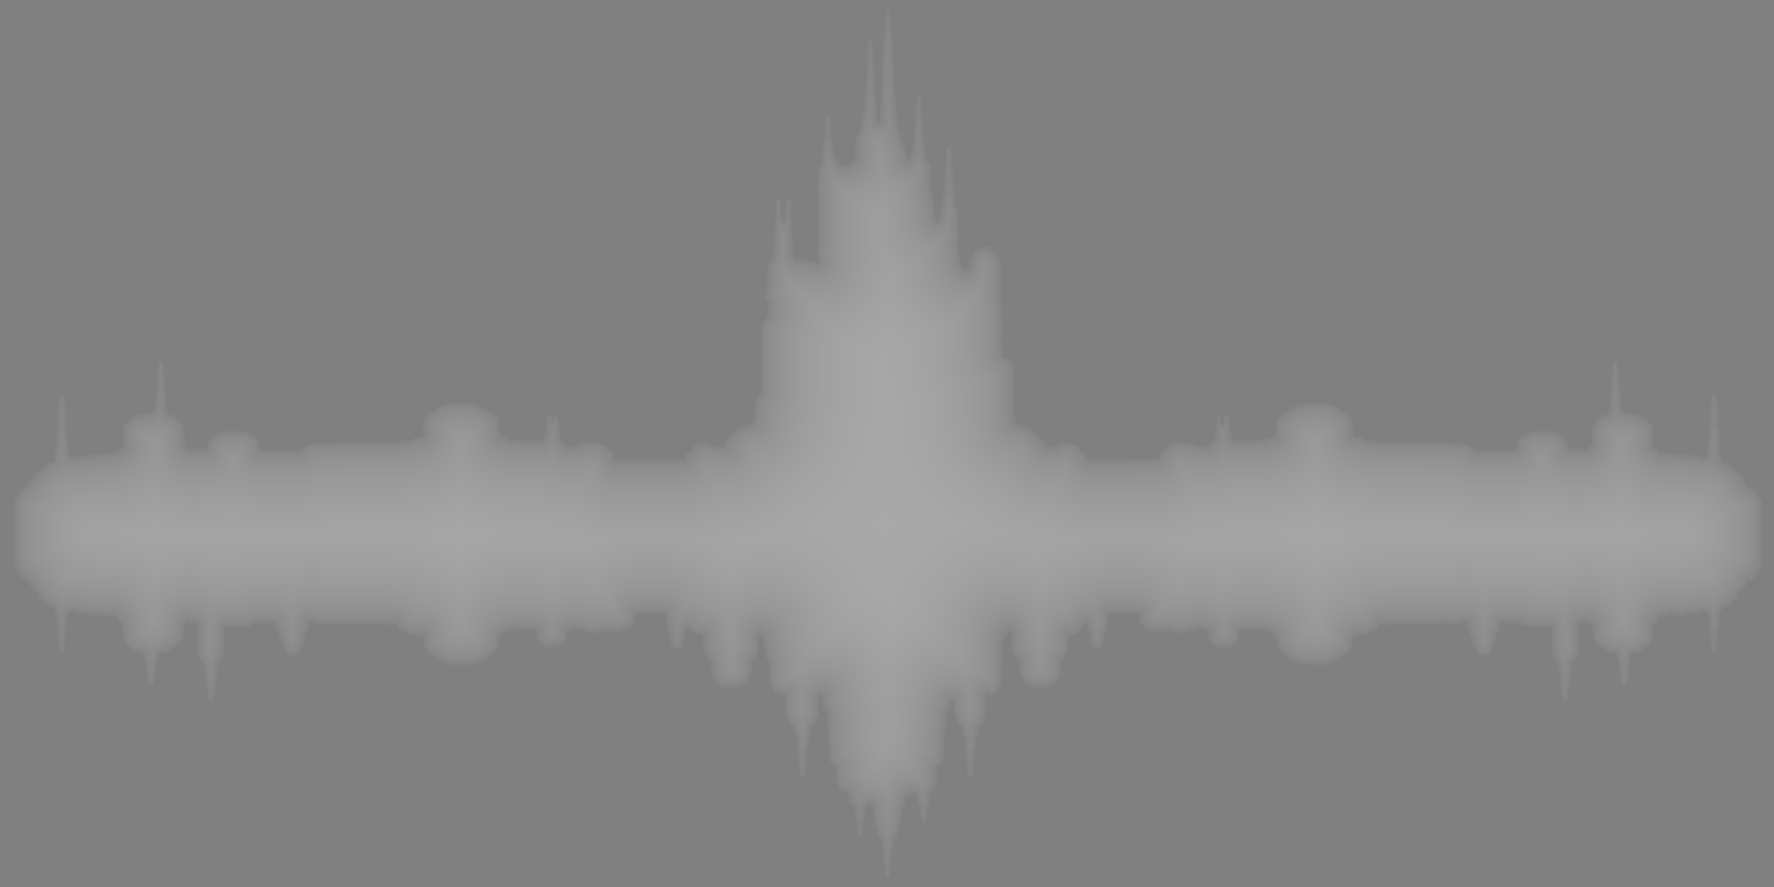
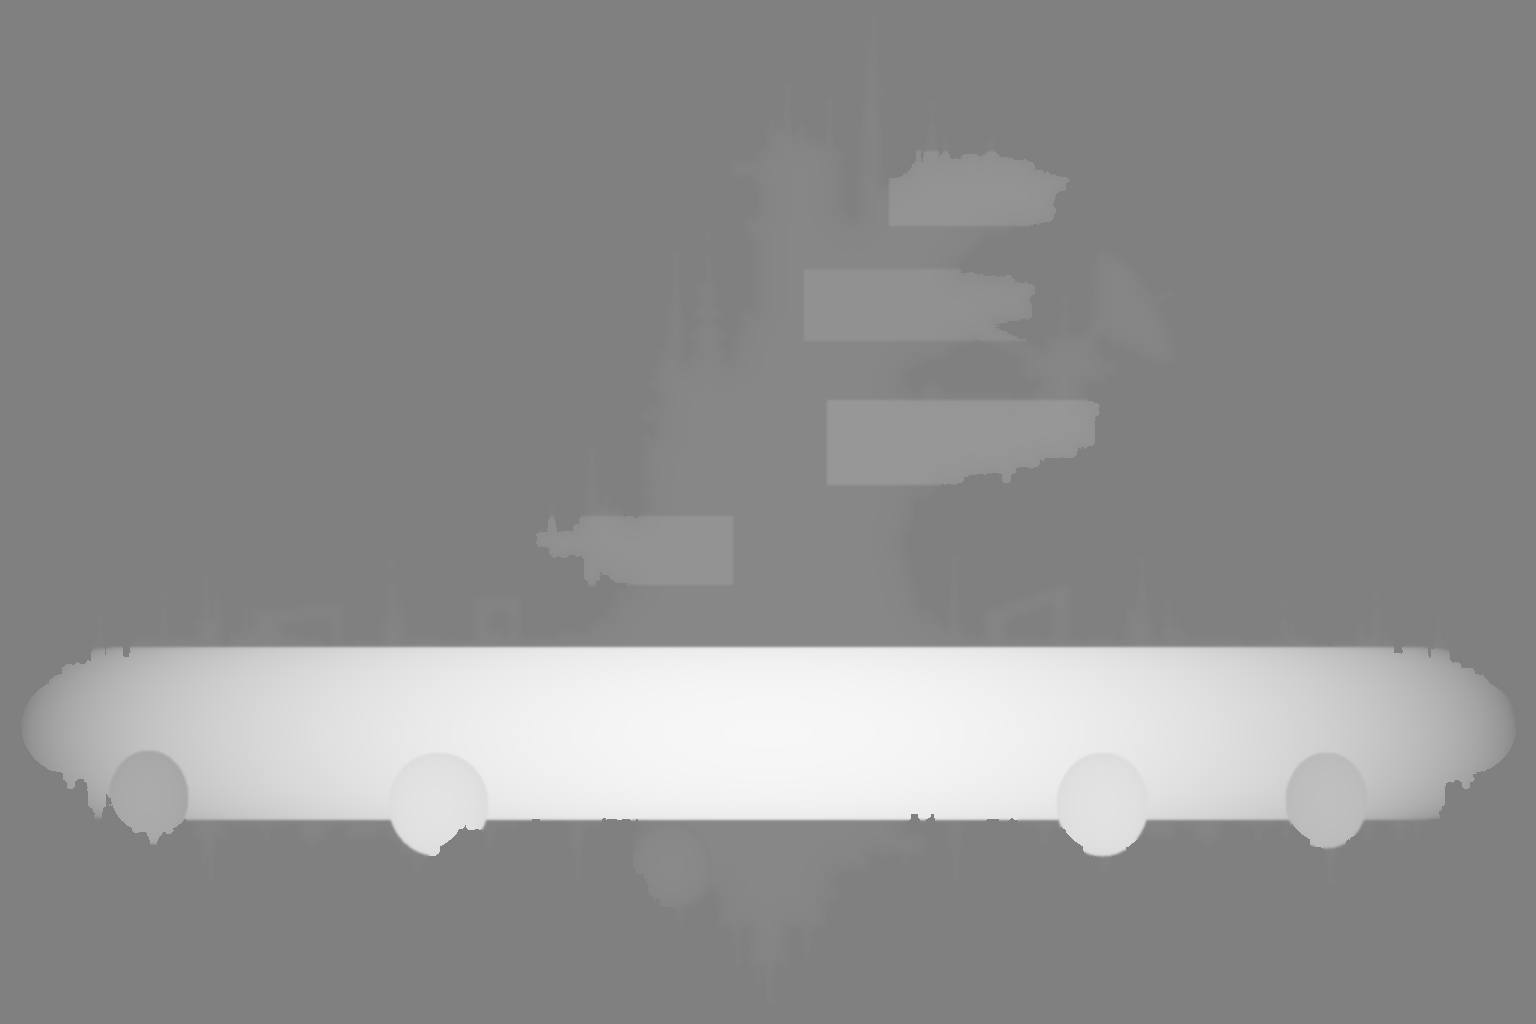
Replace starbase sprite with lossless cutout and geometric relief maps

Changed region(s): [[0.0, 0.2131, 1.0, 0.8523]]

diff --git a/scripts/prepare-starbase-sprite.py b/scripts/prepare-starbase-sprite.py
@@ -1,0 +1,165 @@
+"""Extract the approved station without changing any source RGB samples.
+
+Requires Pillow, numpy and scipy. Only alpha changes: no resampling, recolouring,
+inpainting or generated imagery. Publish the same bytes to the production pack.
+"""
+
+import hashlib
+import json
+from pathlib import Path
+
+import numpy as np
+from PIL import Image
+from scipy import ndimage
+
+ROOT = Path(__file__).resolve().parents[1]
+SOURCE = ROOT / "docs/art/phoenix-starbase-side-v1.png"
+RAW = ROOT / "raw/starbase"
+PACK = ROOT / "content/base/assets/rescue"
+
+
+def save_json(path, value):
+    path.write_text(json.dumps(value, indent="\t") + "\n", encoding="utf-8")
+
+
+def relief(alpha):
+    """View-space geometric proxy in source-pixel units, never luminance.
+
+    Ring lies in the horizontal world plane; visible rim is the near half of
+    a torus. The spire sits at the hub, behind that rim. Fittings are separate
+    rounded volumes. This models the drawing, not a recovered exact 3D mesh.
+    """
+    height, width = alpha.shape
+    yy, xx = np.mgrid[:height, :width].astype(float)
+    solid = alpha > 0
+    # The silhouette only determines local rounded thickness of the upright.
+    thickness = np.minimum(ndimage.distance_transform_edt(solid), 45)
+    z = np.sqrt(np.maximum(0, 45**2 - (45 - thickness)**2))
+    # Projecting control platforms have different mounting depths, independent
+    # of their red/yellow paint and baked shadows.
+    for x0, y0, x1, y1, base in [(889, 151, 1070, 225, 85),
+                                (804, 269, 1035, 340, 65),
+                                (827, 400, 1100, 484, 105),
+                                (536, 516, 732, 584, 80)]:
+        region = (xx >= x0) & (xx <= x1) & (yy >= y0) & (yy <= y1)
+        z[region] += base
+    # Near-side toroidal rim. Cross-section and camera-facing curvature vary
+    # with position, so ivory paint and black ink have the same surface depth.
+    ring = (yy >= 647) & (yy <= 819)
+    section = np.sqrt(np.maximum(0, 86**2 - (yy - 733)**2))
+    ring_z = np.sqrt(np.maximum(0, (662 + section)**2 - (xx - 768)**2))
+    z[ring] = ring_z[ring]
+    # Fuel spheres on the visible rim and the hub's short lower service keel.
+    for cx, cy, rx, ry in [(148, 797, 40, 47), (438, 804, 50, 52),
+                            (1102, 804, 46, 52), (1326, 800, 41, 48),
+                            (671, 865, 40, 43)]:
+        u, v = (xx - cx) / rx, (yy - cy) / ry
+        region = (u*u + v*v) <= 1
+        base = np.sqrt(max(0, 662**2 - (cx - 768)**2)) if cy < 850 else 25
+        surface = base + rx * np.sqrt(np.maximum(0, 1 - u*u - v*v))
+        z[region] = surface[region]
+    # Extend the nearest valid surface through transparent pixels before
+    # smoothing/gradient calculation, avoiding a false cliff to background.
+    nearest = ndimage.distance_transform_edt(~solid, return_distances=False, return_indices=True)
+    extended = z[tuple(nearest)]
+    field = ndimage.gaussian_filter(extended, sigma=1.1)
+    dz_dy, dz_dx = np.gradient(field)
+    normals = np.stack([-dz_dx, dz_dy, np.ones_like(field)], axis=-1)
+    normals /= np.linalg.norm(normals, axis=-1, keepdims=True)
+    normal = np.rint((normals * .5 + .5) * 255).clip(0, 255).astype(np.uint8)
+    span = 1600.0
+    depth = np.rint((.5 + field / span) * 255).clip(0, 255).astype(np.uint8)
+    depth[~solid] = 128
+    normal[~solid] = [128, 128, 255]
+    return depth, normal, span / height
+
+
+def main():
+    RAW.mkdir(parents=True, exist_ok=True)
+    source = np.array(Image.open(SOURCE).convert("RGBA"))
+    rgb = source[:, :, :3]
+    r, g, b = (rgb[:, :, c].astype(np.int16) for c in range(3))
+    # Flood only pale paper connected to the exterior. Ivory tanks and panels
+    # enclosed by ink contours remain opaque, unlike a global colour key.
+    paper_colour = (r >= 220) & (g >= 210) & (b >= 180) & (r >= g) & (g >= b) & (r - g <= 25) & (g - b <= 45)
+    seeds = np.zeros(paper_colour.shape, dtype=bool)
+    seeds[0, :] = paper_colour[0, :]
+    seeds[-1, :] = paper_colour[-1, :]
+    seeds[:, 0] = paper_colour[:, 0]
+    seeds[:, -1] = paper_colour[:, -1]
+    # Visually identified open negative space enclosed by crane/brace outlines.
+    # Coordinates are source pixels; do not remove enclosed ivory hull panels.
+    for x, y in [(974, 371), (311, 629), (499, 620), (1031, 624)]:
+        assert paper_colour[y, x], (x, y)
+        seeds[y, x] = True
+    paper = ndimage.binary_propagation(seeds, mask=paper_colour)
+    result = source.copy()
+    result[paper, 3] = 0
+    # Keep original RGB even beneath alpha=0. Do not premultiply or decontaminate.
+    assert np.array_equal(result[:, :, :3], rgb)
+    height, width = result.shape[:2]
+    depth, normal, depth_scale = relief(result[:, :, 3])
+    pivot = [width / 2, 744]
+    frame = dict(name="starbase", rect=[0, 0, width, height], pivot=pivot,
+                 azimuth=0, depth_scale=depth_scale, depth_offset=0, attachments={})
+    material = dict(albedo="phoenix-base:assets/rescue/starbase.png", frames=[frame],
+                    normal="phoenix-base:assets/rescue/starbase-normal.png",
+                    depth="phoenix-base:assets/rescue/starbase-depth.png")
+    side_frame = dict(name="starbase", rect=frame["rect"], pivot=pivot,
+                      camera_azimuth_degrees=0, mirror_x=False, depth_scale=depth_scale,
+                      depth_offset=0, markers={}, attachment_depth_offsets={})
+    # render.scale is frame height, so this retains the former 400 m width.
+    scale = 400 * height / width
+    sidecar = dict(schema_version=1, coordinate_system="frame_pixels_top_left_y_down",
+                   id="starbase", image_size=[width, height],
+                   files=dict(sprite="starbase.png", normal="starbase-normal.png", depth="starbase-depth.png"),
+                   billboard_mode="camera", render_scale=scale,
+                   depth_encoding=dict(channel="r", color_space="linear", white="near",
+                                       quality="side_elevation_geometric_proxy"),
+                   normal_encoding=dict(space="view", x="right", y="up", z="toward_viewer",
+                                        quality="derived_from_geometric_depth"),
+                   sprite_sheet=dict(kind="directions", frames=[side_frame]))
+    Image.fromarray(result).save(RAW / "starbase.png")
+    saved = np.array(Image.open(RAW / "starbase.png"))
+    assert np.array_equal(saved, result)
+    (PACK / "starbase.png").write_bytes((RAW / "starbase.png").read_bytes())
+    for name, array in [("starbase-depth.png", depth), ("starbase-normal.png", normal)]:
+        Image.fromarray(array).save(RAW / name)
+        (PACK / name).write_bytes((RAW / name).read_bytes())
+    save_json(RAW / "starbase.sprite.json", sidecar)
+    save_json(PACK / "starbase.sprite.json", sidecar)
+    save_json(PACK / "starbase.material.json", material)
+
+    # Change only this entity's render block; preserve unrelated in-flight edits.
+    definitions = ROOT / "content/base/definitions.json"
+    text = definitions.read_text(encoding="utf-8")
+    albedo = text.index('"albedo": "phoenix-base:assets/rescue/starbase.png"')
+    start = text.rfind('\t\t\t"render": {', 0, albedo) + len('\t\t\t"render": ')
+    assert start > 0
+    render, length = json.JSONDecoder().raw_decode(text[start:])
+    assert render["sprite"]["albedo"] == material["albedo"]
+    render.update(scale=scale, sprite=material)
+    encoded = json.dumps(render, indent="\t").replace("\n", "\n\t\t\t")
+    definitions.write_text(text[:start] + encoded + text[start + length:], encoding="utf-8")
+
+    ys, xs = np.nonzero(result[:, :, 3])
+    receipt = dict(source=str(SOURCE.relative_to(ROOT)),
+                   source_sha256=hashlib.sha256(SOURCE.read_bytes()).hexdigest(),
+                   output_sha256=hashlib.sha256((RAW / "starbase.png").read_bytes()).hexdigest(),
+                   image_size=[width, height], rgb_changed_pixels=0,
+                   alpha_cleared_pixels=int(paper.sum()), resampled=False,
+                   foreground_bounds=[int(xs.min()), int(ys.min()), int(xs.max()) + 1, int(ys.max()) + 1],
+                   method="pale-paper flood from borders and four identified open brace/crane regions; binary alpha only",
+                   material="geometric torus, central upright, projecting platforms and rim fuel spheres; no luminance input",
+                   depth_scale=depth_scale,
+                   depth_samples={"near_rim": int(depth[733, 768]), "upper_spire": int(depth[200, 780])})
+    save_json(RAW / "extraction-receipt.json", receipt)
+    # Dark composite is a review artifact, never the published sprite.
+    preview = Image.new("RGBA", (width, height), "#282b39")
+    preview.alpha_composite(Image.fromarray(result))
+    preview.convert("RGB").save(RAW / "extraction-preview.png")
+    print(json.dumps(receipt, indent=2))
+
+
+if __name__ == "__main__":
+    main()

diff --git a/content/base/assets/rescue/README.md b/content/base/assets/rescue/README.md
@@ -1,7 +1,17 @@
 # Rescue opening scenery
 
-`planet.png` and `starbase.png` are transparent RGBA PNGs generated with OpenAI imagegen for Phoenix V3 on 23 October 2026. The existing `assets/comic/asteroid-albedo.png` supplied the illustrated reference: ink outlines, stippled shading, muted ochre, ivory and teal.
+`planet.png` is a transparent RGBA PNG generated with OpenAI imagegen for Phoenix V3 on 23 October 2026. The existing `assets/comic/asteroid-albedo.png` supplied its illustrated reference: ink outlines, stippled shading, muted ochre, ivory and teal.
 
 The planet is one spherical illustrated cutout. The starbase is a strict side elevation, regenerated following the requested correction from the earlier three-quarter view. Only the side-on version is packaged. Both are authored as single camera-facing billboards in `definitions.json`; no directional sprite selection or orbital simulation is involved.
 
-Generated source identifiers: planet `exec-7efff45f-2bba-432e-a39e-c783389622c7`; side-on station `exec-e200c3dc-ccd7-411e-9878-b70a2898569c`.
+Generated planet source identifier: `exec-7efff45f-2bba-432e-a39e-c783389622c7`.
+
+## Circular starbase replacement, 30 October 2026
+
+The current station comes from `docs/art/phoenix-starbase-side-v1.png`, the approved circular side elevation with an exaggerated asymmetric spire. `scripts/prepare-starbase-sprite.py` removes the ivory paper using Pillow/numpy/scipy, with no image generation, resizing, repainting or RGB changes. Only alpha is changed; all RGB samples, including transparent pixels, remain byte-identical to that source. Border-connected paper and four visually identified crane/brace openings become transparent; enclosed ivory armour remains opaque.
+
+The editable set is in ignored `raw/starbase/`: `starbase.png`, `starbase.sprite.json`, `starbase-depth.png`, `starbase-normal.png`, an extraction receipt and a dark-background review composite. The production PNGs are byte-identical copies of the raw files. Run `python scripts/prepare-starbase-sprite.py` to reproduce this set and update its production material, sidecar and entity render block. Use this dedicated preparation step after any broad legacy relief rebake.
+
+Depth is an approximate geometric model, independent of albedo brightness and painted shadows: the visible near half of a horizontal torus, a central upright behind it, projecting control platforms and spherical rim tanks. Linear red encodes camera-facing depth, white nearer; normals use view-space +X right, +Y up, +Z toward the viewer and derive from that same field. The 1600-source-pixel depth span gives `depth_scale: 1.5625` for the 1024-pixel-high frame. This is a calibrated proxy, not an exact recovered mesh or a shadow mask.
+
+The full source remains 1536 by 1024. Pivot `[768, 744]` registers the ring centre, with the spire above it. Render height 266.6666666666667 metres retains the former 400-metre frame width; simulation collision and docking rules are unchanged. Existing inherited station definitions use the replacement through the same asset reference.
